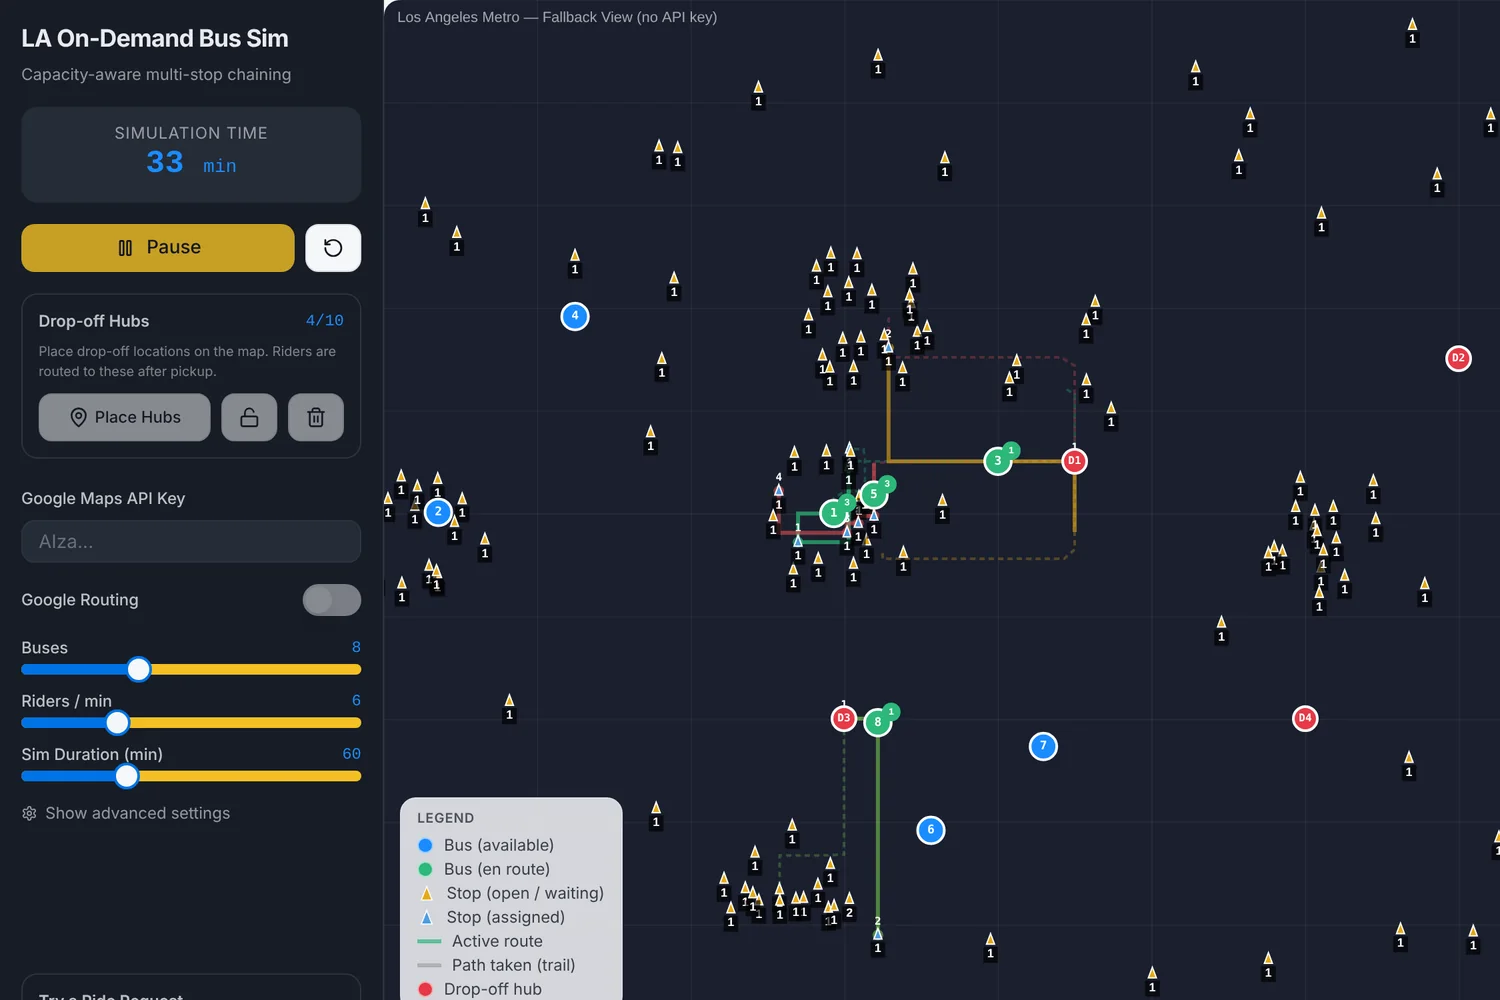
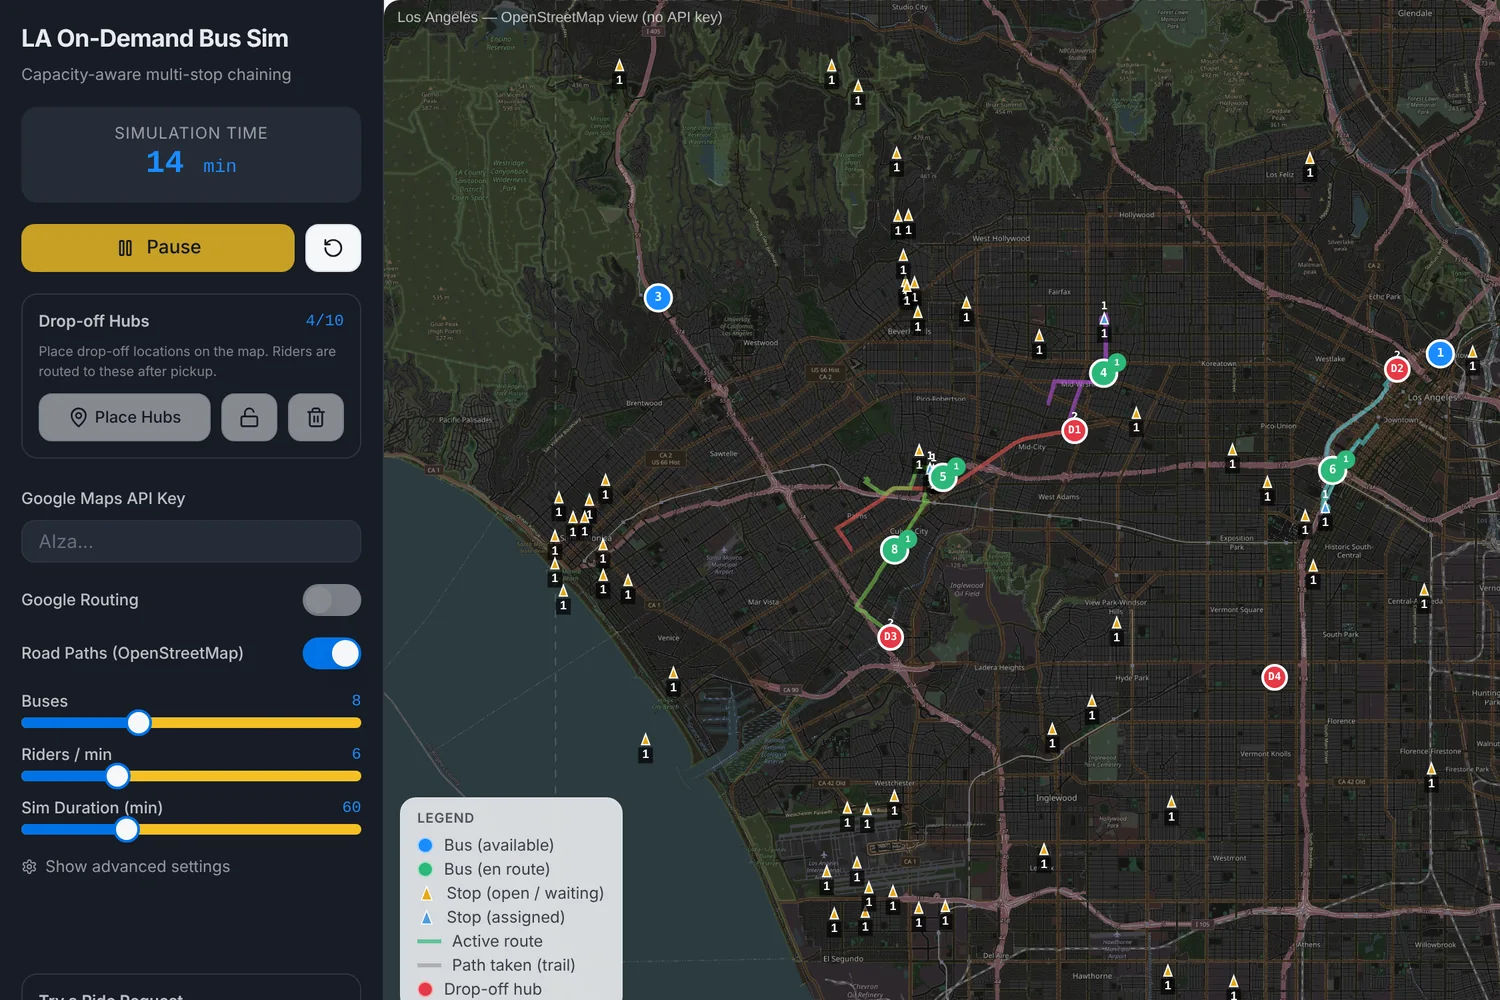
Show the Hubl simulator on a real LA map with road-following routes
The figure is recaptured from the simulator's new OpenStreetMap view
(Hubl-Algorithm-Simulation branch claude/osm-basemap-routing), and the
caption credits OpenStreetMap.

Claude-Session: https://claude.ai/code/session_01GTvuWToaW5AbPpj4t5QufA

Changed region(s): [[0.0, 0.0, 1.0, 1.0], [0.092, 0.155, 0.1227, 0.186]]

diff --git a/src/content/site.ts b/src/content/site.ts
@@ -120,7 +120,7 @@ export const experience: Experience[] = [
       "Hubl won 1st place at the USC Buildathon and 2nd at Games Week, and joined the Greif Incubator.",
     ],
     demo: "hub-route",
-    cover: { src: "/media/hubl/simulator.webp", alt: "Hubl's bus simulator 33 minutes into a run: four drop-off hubs, riders waiting at virtual stops and three buses on chained routes", caption: "The routing simulator mid-run: riders grouped into stops, buses chained through them to the hubs." },
+    cover: { src: "/media/hubl/simulator.webp", alt: "Hubl's bus simulator 14 minutes into a run on an OpenStreetMap map of LA: four drop-off hubs, riders waiting at virtual stops and buses on road-following routes", caption: "The routing simulator mid-run: riders grouped into stops, buses routed along real LA streets to the hubs. Map © OpenStreetMap contributors." },
     media: [
       { src: "/media/hubl/team.webp", alt: "The five-person BusIn' team on stage with the $1,000 check and finalist certificates", caption: "The team, right after the win." },
       { src: "/media/hubl/first-place.webp", alt: "Innovate x LA 2025 Design Day and Buildathon first-place certificate", caption: "1st place, Innovate x LA Buildathon." },
